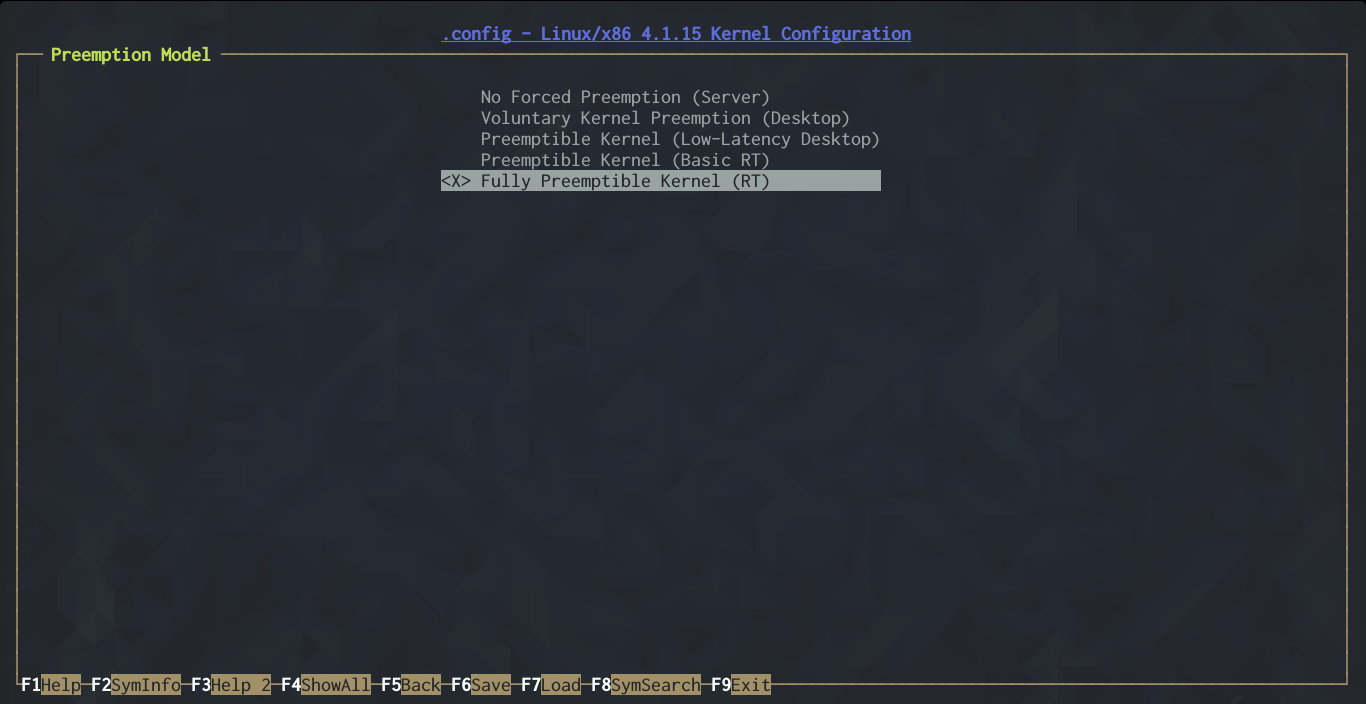
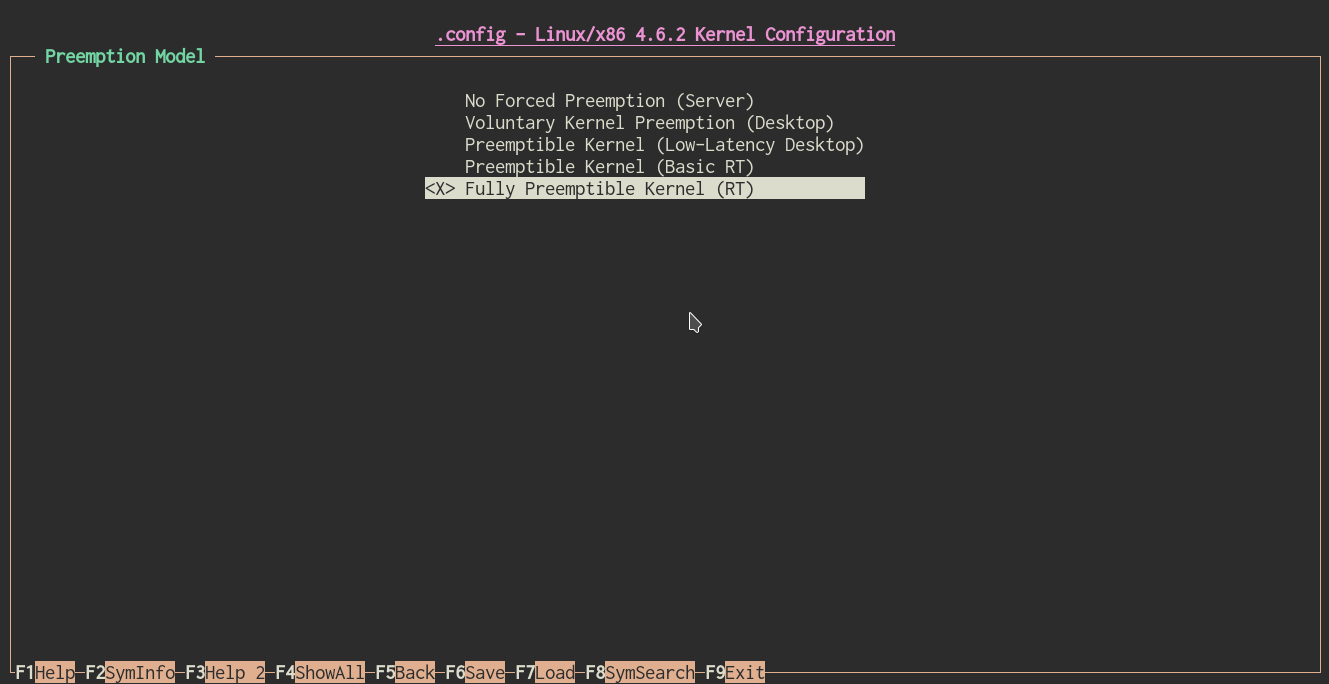
Actualizacion de la imagen y de la version de kernel

diff --git a/README.md b/README.md
@@ -1,3 +1,3 @@
 # Repo-Linux-RT
-El arbol de directorios de kernel 4.1.15 con el parche de RT.
+El arbol de directorios de kernel 4.6.2 con el parche de RT.
 ![Linux RT](Imagen.png)
